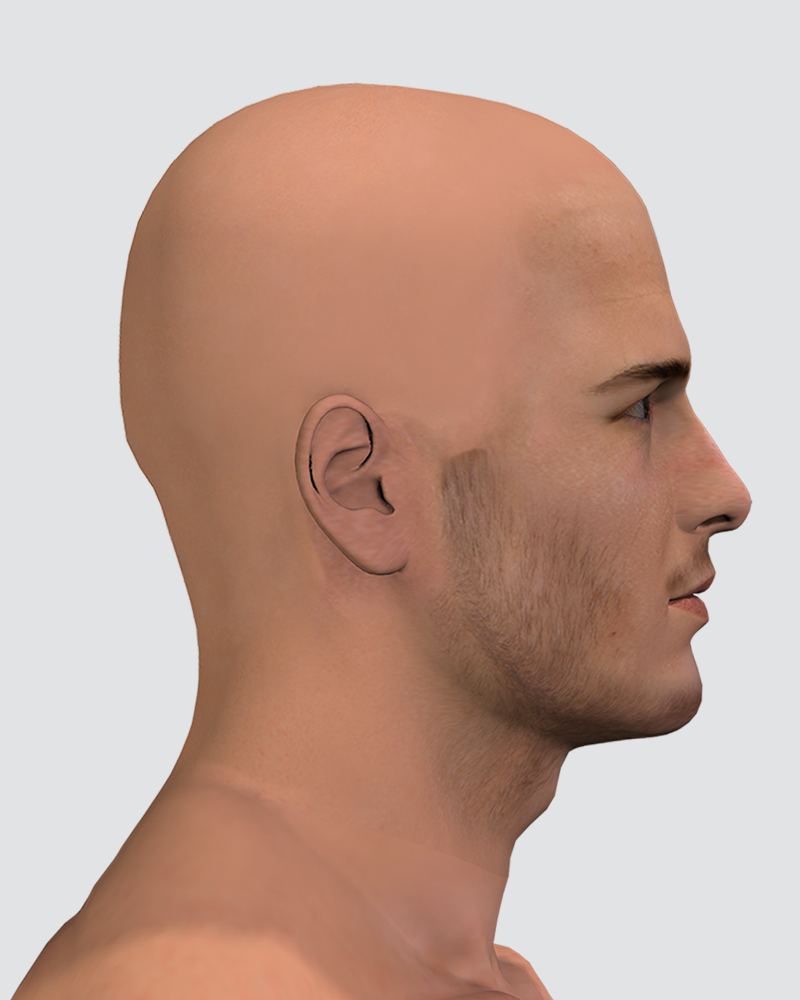
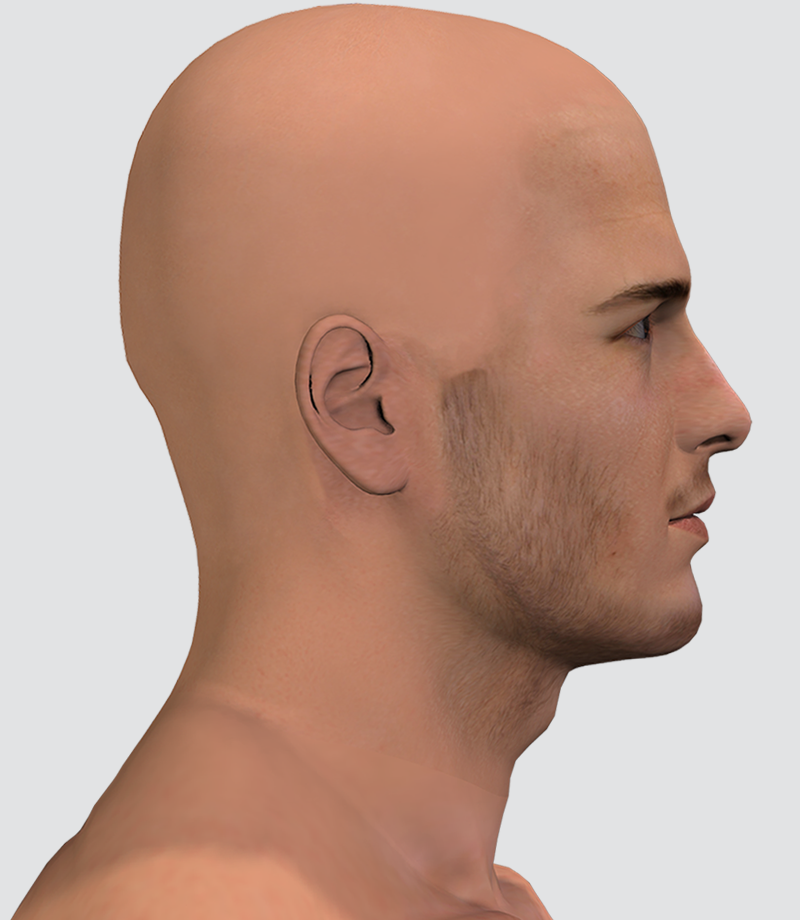
@ekynoxe - Replacing images with non-padded ones, and updating footer style. Minor tweaks left to do on image positions.

diff --git a/robot-revolution/src/sass/_footer.scss b/robot-revolution/src/sass/_footer.scss
@@ -1,6 +1,6 @@
 .footer {
 	border-top: 1px solid #ccc;
-	margin: 0 auto 20px auto;
+	margin: $itemSpacingVertical auto $itemSpacingVertical auto;
 	padding-top: 10px;
 	width: 100%;
 	max-width: $maxWidth;
@@ -9,15 +9,16 @@
 
 .footer__text {
 	color: #ccc;
+	float: left;
 	margin-left: 10px;
+	padding-top: $itemSpacingHorizontal / 2;
 }
 
 .footer__link {
 	color: $black;
 	text-decoration: none;
-	position: absolute;
-	right: 10px;
-	top: 10px;
+	float: right;
+	margin: 0 $itemSpacingHorizontal / 2 0 0;
 	display: table;
 
 	&:hover {
@@ -28,6 +29,7 @@
 .footer__link-image, .footer__link-text {
 	display: table-cell;
 	vertical-align: middle;
+	line-height: 0;
 }
 
 .footer__link-text {

diff --git a/robot-revolution/src/sass/_image-transitions.scss b/robot-revolution/src/sass/_image-transitions.scss
@@ -4,6 +4,11 @@
     position: relative;
 }
 
+.image-transition {
+    max-height: 100%;
+    max-width: 100%;
+}
+
 .image-transition-top {
     position: absolute;
 }
